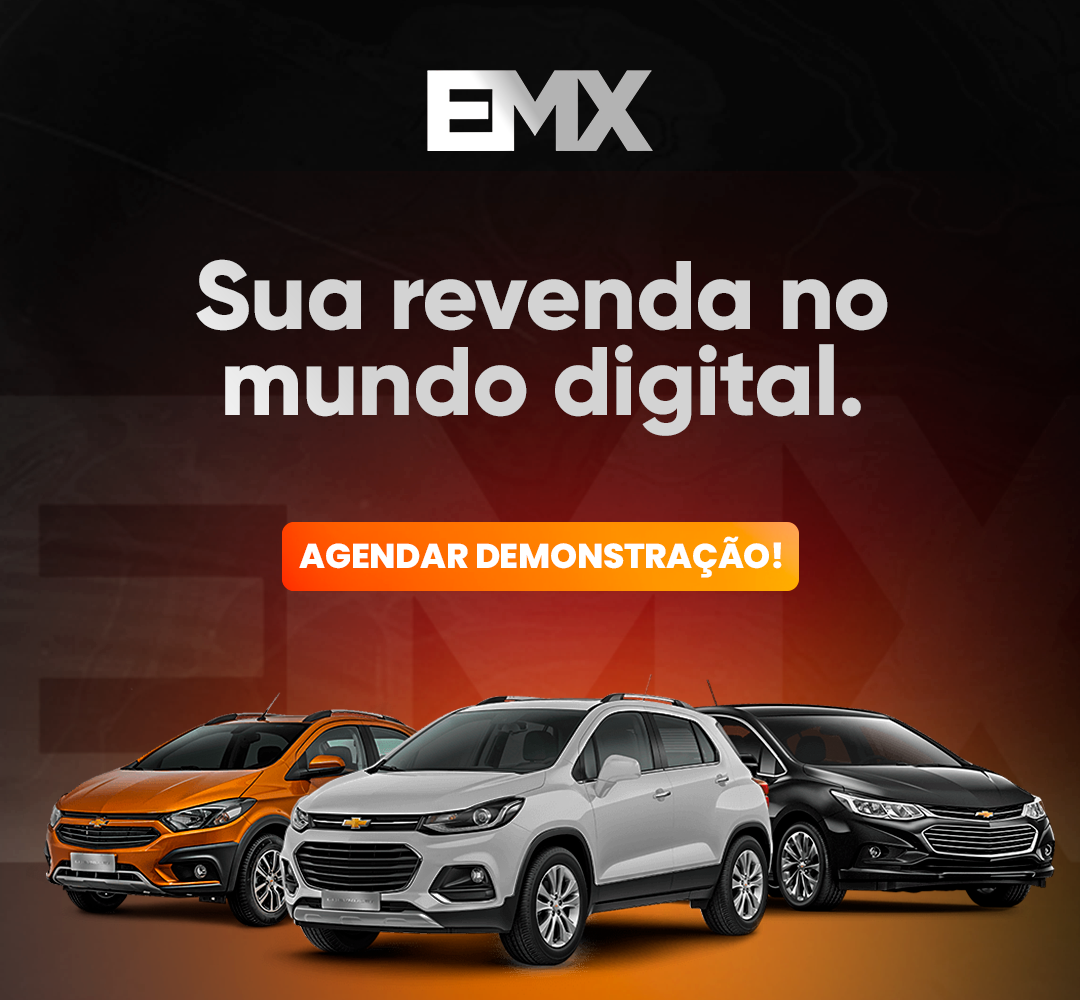
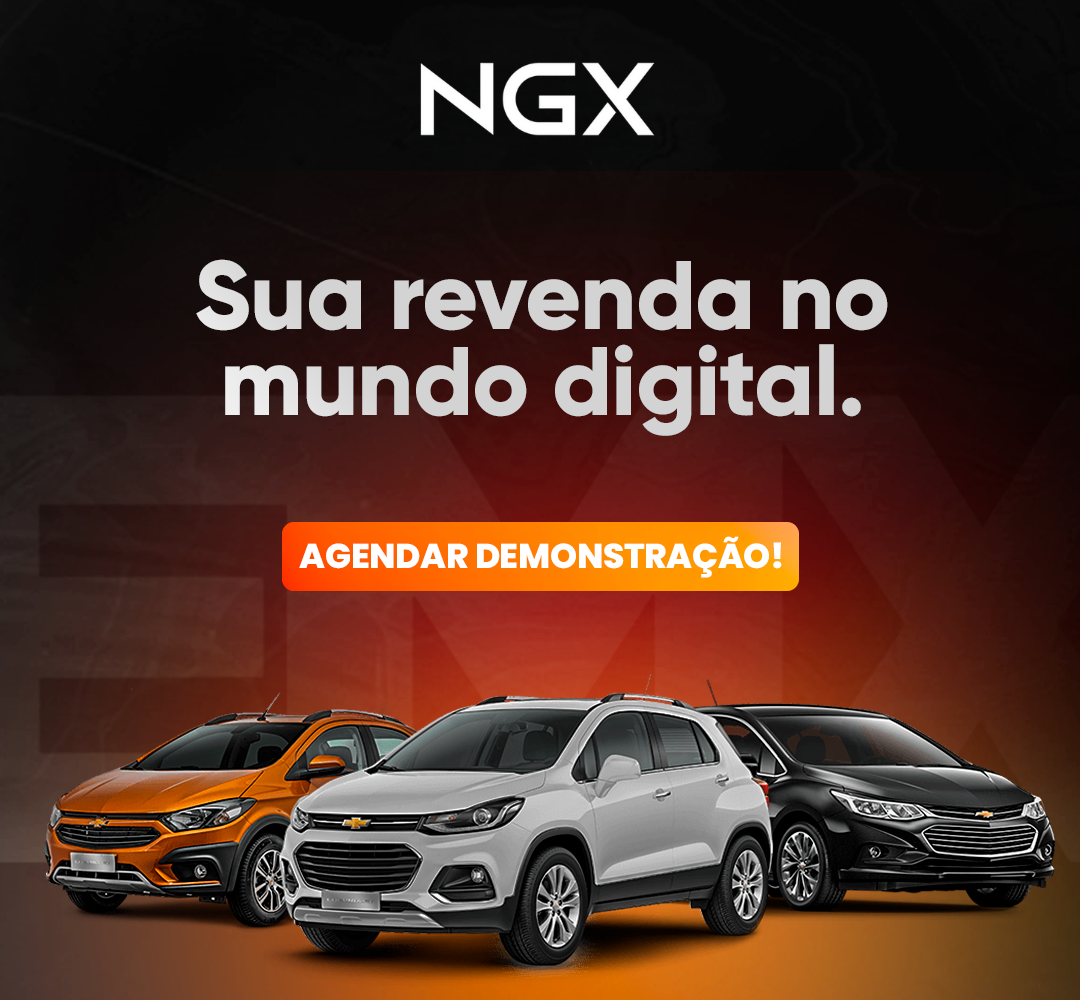
EMX -> NGX

Changed region(s): [[0.3667, 0.062, 0.6111, 0.155]]

diff --git a/frontend/pages/propriedade-intelectual.js b/frontend/pages/propriedade-intelectual.js
@@ -42,11 +42,11 @@ const PropriedadeIntelectual = () => {
 
         <section className="mb-10">
           <p className="text-lg text-gray-700 mb-4">
-            Todo o conteúdo deste site, incluindo, mas não se limitando a, logotipos, textos, gráficos, imagens, vídeos, áudios, ícones, interfaces e software, é de propriedade exclusiva da <strong>{settings?.name || 'EMX Softwares'}</strong>, protegida pelas leis de direitos autorais, marcas comerciais e outras legislações aplicáveis, como a Lei de Direitos Autorais (Lei nº 9.610/1998) e o Código de Propriedade Industrial (Lei nº 9.279/1996), no Brasil.
+            Todo o conteúdo deste site, incluindo, mas não se limitando a, logotipos, textos, gráficos, imagens, vídeos, áudios, ícones, interfaces e software, é de propriedade exclusiva da <strong>{settings?.name || 'NGX Brasil'}</strong>, protegida pelas leis de direitos autorais, marcas comerciais e outras legislações aplicáveis, como a Lei de Direitos Autorais (Lei nº 9.610/1998) e o Código de Propriedade Industrial (Lei nº 9.279/1996), no Brasil.
           </p>
 
           <p className="text-lg text-gray-700 mb-4">
-            Nenhuma parte deste site pode ser copiada, reproduzida, modificada, distribuída, transmitida, publicada, licenciada ou explorada comercialmente sem a permissão expressa da <strong>{settings?.name || 'EMX Softwares'}</strong>. A violação destes direitos poderá resultar em penalidades cíveis e criminais conforme a legislação vigente.
+            Nenhuma parte deste site pode ser copiada, reproduzida, modificada, distribuída, transmitida, publicada, licenciada ou explorada comercialmente sem a permissão expressa da <strong>{settings?.name || 'NGX Brasil'}</strong>. A violação destes direitos poderá resultar em penalidades cíveis e criminais conforme a legislação vigente.
           </p>
 
           <p className="text-lg text-gray-700 mb-4">
@@ -85,7 +85,7 @@ const PropriedadeIntelectual = () => {
         <section>
           <h2 className="text-2xl font-bold mb-4 text-gray-800">Contato para Autorizações</h2>
           <p className="text-lg text-gray-700">
-            Para qualquer questão relativa à propriedade intelectual ou solicitações de autorização, entre em contato com a <strong>{settings?.name || 'EMX Softwares'}</strong> pelo e-mail <a href={`mailto:${settings?.email}`} className="text-blue-500 hover:underline">{settings?.email}</a>.
+            Para qualquer questão relativa à propriedade intelectual ou solicitações de autorização, entre em contato com a <strong>{settings?.name || 'NGX Brasil'}</strong> pelo e-mail <a href={`mailto:${settings?.email}`} className="text-blue-500 hover:underline">{settings?.email}</a>.
           </p>
         </section>
       </div>

diff --git a/frontend/pages/politica-de-privacidade.js b/frontend/pages/politica-de-privacidade.js
@@ -54,7 +54,7 @@ const PoliticaDePrivacidade = () => {
             <section className="mb-10">
               <h2 className="text-2xl font-bold mb-4 text-gray-800">Informações Recolhidas</h2>
               <p className="text-lg text-gray-700 mb-4">
-                <strong>Dados fornecidos pelo usuário:</strong> coletamos informações de identificação pessoal, como nome, e-mail e telefone, por meio do preenchimento dos formulários para proposta dos carros, assinatura para recebimento da newsletter e login para receber as notícias do EMX. Ocasionalmente, a solicitação de algumas informações pode ser feita por meio de contato direto da empresa {settings.name} com os usuários via e-mail, mídias sociais ou telefone.
+                <strong>Dados fornecidos pelo usuário:</strong> coletamos informações de identificação pessoal, como nome, e-mail e telefone, por meio do preenchimento dos formulários para proposta dos carros, assinatura para recebimento da newsletter e login para receber as notícias de {settings.name}. Ocasionalmente, a solicitação de algumas informações pode ser feita por meio de contato direto da empresa {settings.name} com os usuários via e-mail, mídias sociais ou telefone.
               </p>
               <p className="text-lg text-gray-700 mb-4">
                 <strong>Dados de navegação no site:</strong> quando você visita nosso site, é inserido um ‘cookie’ no seu navegador por meio do software Google Analytics. São coletadas informações como endereço IP, localização geográfica, fonte de referência, tipo de navegador, duração da visita, páginas visitadas e a quantidade de vezes que você retorna ao nosso endereço.

diff --git a/frontend/pages/components/Footer.js b/frontend/pages/components/Footer.js
@@ -182,7 +182,7 @@ const Footer = () => {
       <div className="bg-gray-800 p-6 text-center text-gray-400 text-sm">
         <p>© 2024 {settings.name}. Todos os direitos reservados.</p>
         <p>
-          Desenvolvido por <span className="text-white font-semibold">EMX Softwares</span>
+          Desenvolvido por <span className="text-white font-semibold">NGX Brasil</span>
         </p>
       </div>
     </footer>

diff --git a/backend/server.js b/backend/server.js
@@ -156,8 +156,8 @@ app.get('/', (req, res) => {
 
 // Iniciar o servidor
 app.listen(PORT, '0.0.0.0', () => {
-  console.log(`[EMX Tecnologia] Sistema iniciado com sucesso`);
-  console.log(`[EMX Tecnologia] Servidor rodando na porta: ${PORT}`);
+  console.log(`[NGX Brasil] Sistema iniciado com sucesso`);
+  console.log(`[NGX Brasil] Servidor rodando na porta: ${PORT}`);
 
   carregarCarros(); 
   carregarMotos()
